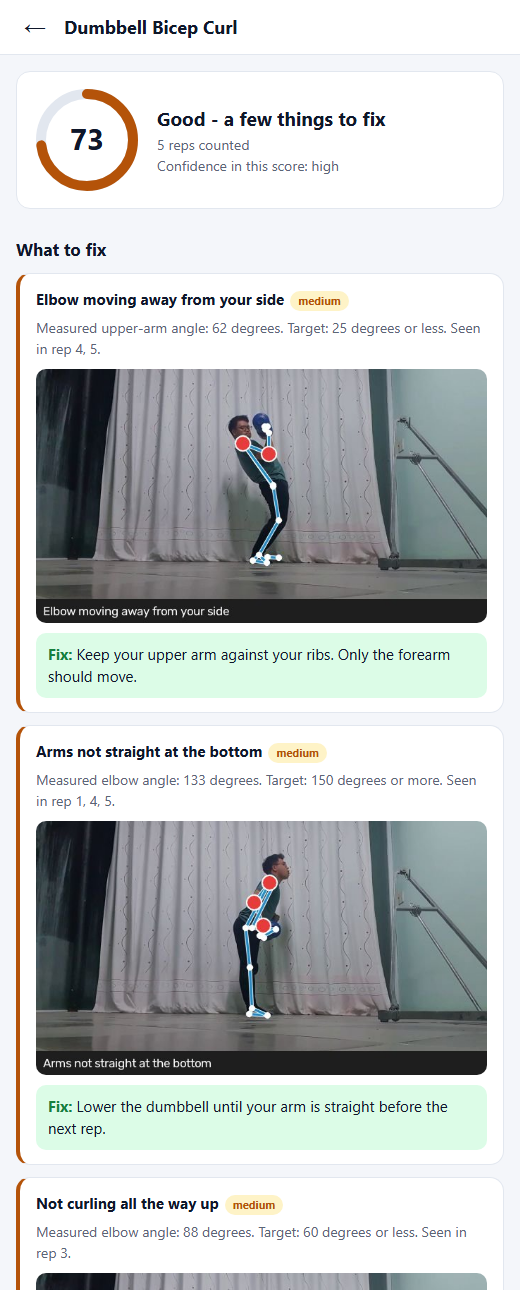
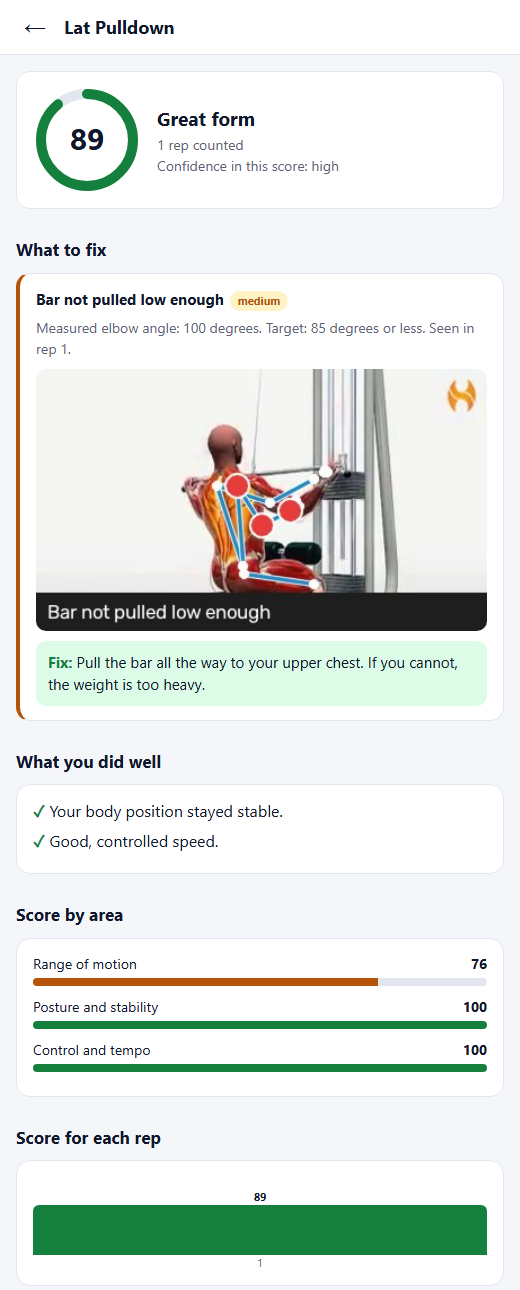
README: show a lat pulldown result as the score screenshot
Replaces the result screenshot with the app's output for a lat pulldown
clip and corrects the credits to match.

diff --git a/README.md b/README.md
@@ -177,7 +177,9 @@ Rebuild the models, measurements and graphs:
 ## Credits
 
 - Pose model: Google MediaPipe (Apache 2.0). Machine recogniser: Google SigLIP (Apache 2.0).
-- Training data for the posture classifiers, and the demo video shown in the screenshot:
+- Training data for the posture classifiers:
   [Exercise-Correction](https://github.com/NgoQuocBao1010/Exercise-Correction) by Ngo Hong Quoc Bao (MIT).
+- The result screenshot contains one frame of a third-party lat pulldown animation, shown only to
+  illustrate the app's output. The animation belongs to its owner.
 - Evaluation photos: Wikimedia Commons contributors (not included in this repository).
 - Built with the help of Claude Code (Anthropic).
